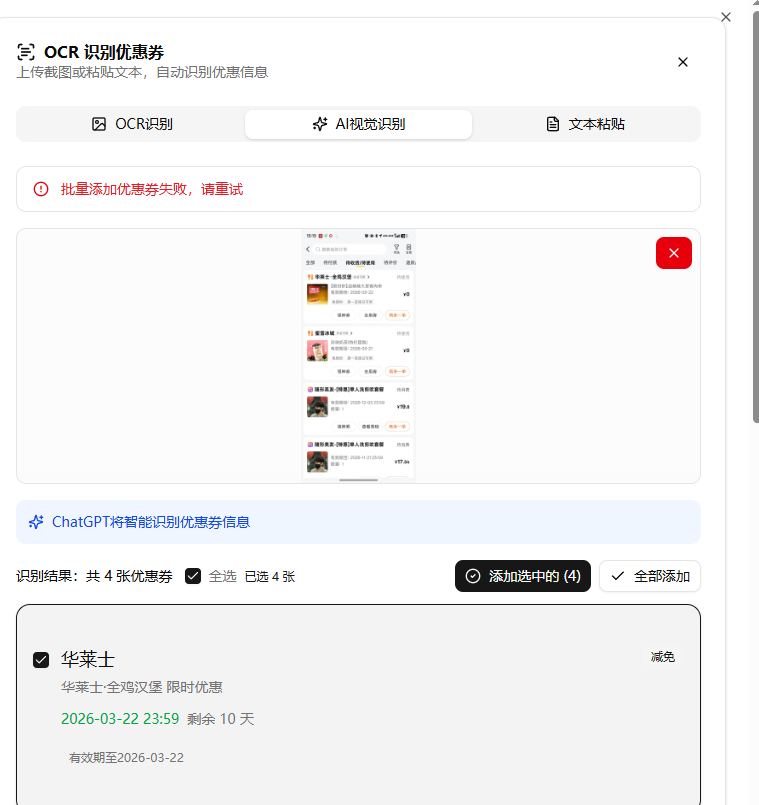
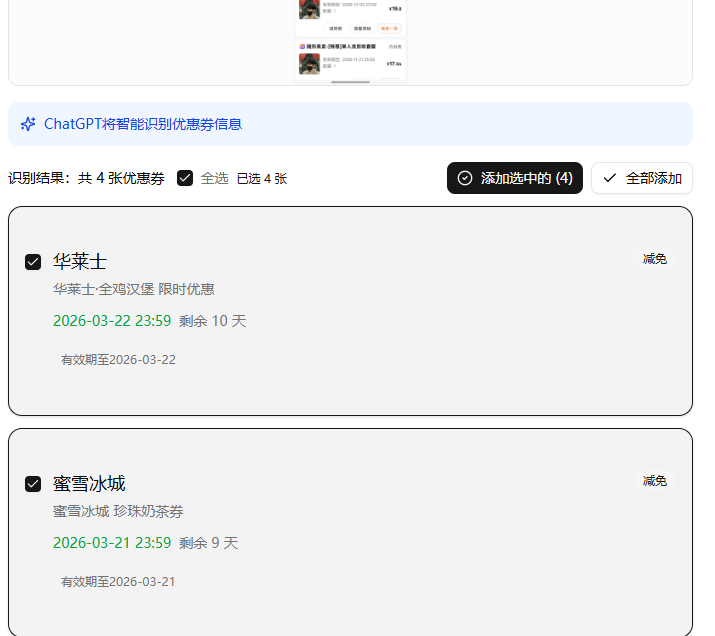
fix: 修复日期时间显示多了8小时的问题
问题根因：
- 前端发送纯日期字符串 "2026-03-22"
- Zod schema 使用 coerce: { date: true } 强制转换为 Date
- JavaScript 解析时当作 UTC 时间午夜，后续时区转换导致 +8 小时偏移

修复：
1. Schema 修改 - 日期字段接受字符串或 Date，不再强制转换
2. API 修改 - 直接将日期字符串转换为北京时间 ISO 格式
   输入: "2026-03-22" + endHour=23, endMinute=59
   输出: "2026-03-22T23:59:00.000+08:00"
3. 数据库层 - 添加 dbInsertCouponSchema 用于实际数据库插入
4. CouponManager - 在插入/更新前将字符串日期转换为 Date 对象

diff --git a/src/storage/database/shared/schema.ts b/src/storage/database/shared/schema.ts
@@ -1,6 +1,5 @@
 import { pgTable, text, varchar, timestamp, boolean, integer, index, real } from "drizzle-orm/pg-core"
 import { sql } from "drizzle-orm"
-import { createSchemaFactory } from "drizzle-zod"
 import { z } from "zod"
 
 export const coupons = pgTable(
@@ -11,7 +10,7 @@ export const coupons = pgTable(
       .default(sql`gen_random_uuid()`),
     title: varchar("title", { length: 255 }).notNull(),
     description: text("description"),
-    discountAmount: real("discount_amount"), // 改为 real 支持浮点数
+    discountAmount: real("discount_amount"), // 支持浮点数
     startDate: timestamp("start_date", { withTimezone: true }).notNull(),
     endDate: timestamp("end_date", { withTimezone: true }).notNull(),
     isReminded: boolean("is_reminded").default(false).notNull(),
@@ -26,44 +25,42 @@ export const coupons = pgTable(
   })
 )
 
-// 使用 createSchemaFactory 配置 date coercion
-const { createInsertSchema: createCoercedInsertSchema } = createSchemaFactory({
-  coerce: { date: true },
-})
-
-// Zod schemas for validation
-export const insertCouponSchema = createCoercedInsertSchema(coupons).pick({
-  title: true,
-  description: true,
-  discountAmount: true,
-  startDate: true,
-  endDate: true,
-  notes: true,
-}).extend({
-  // 覆盖 discountAmount，允许数字或null，支持浮点数
+// Zod schema for API 验证 - 接受字符串或 Date，在 API 层处理转换
+export const insertCouponSchema = z.object({
+  title: z.string().min(1, "标题不能为空").max(255, "标题不能超过255个字符"),
+  description: z.string().optional().nullable(),
   discountAmount: z.number().nullable().optional(),
+  startDate: z.union([z.string(), z.date()]),
+  endDate: z.union([z.string(), z.date()]),
+  notes: z.string().optional().nullable(),
 })
 
-export const updateCouponSchema = createCoercedInsertSchema(coupons)
-  .pick({
-    title: true,
-    description: true,
-    discountAmount: true,
-    startDate: true,
-    endDate: true,
-    isReminded: true,
-    notes: true,
-  })
-  .partial()
-  .extend({
-    // 覆盖 discountAmount，允许数字或null，支持浮点数
-    discountAmount: z.number().nullable().optional(),
-  })
+// Zod schema for 更新验证
+export const updateCouponSchema = z.object({
+  title: z.string().min(1, "标题不能为空").max(255, "标题不能超过255个字符").optional(),
+  description: z.string().optional().nullable(),
+  discountAmount: z.number().nullable().optional(),
+  startDate: z.union([z.string(), z.date()]).optional(),
+  endDate: z.union([z.string(), z.date()]).optional(),
+  isReminded: z.boolean().optional(),
+  notes: z.string().optional().nullable(),
+})
+
+// 用于数据库操作的 schema（日期必须是 Date 或 SQL）
+export const dbInsertCouponSchema = z.object({
+  title: z.string(),
+  description: z.string().nullable().optional(),
+  discountAmount: z.number().nullable().optional(),
+  startDate: z.date(),
+  endDate: z.date(),
+  notes: z.string().nullable().optional(),
+})
 
 // TypeScript types
 export type Coupon = typeof coupons.$inferSelect
 export type InsertCoupon = z.infer<typeof insertCouponSchema>
 export type UpdateCoupon = z.infer<typeof updateCouponSchema>
+export type DbInsertCoupon = z.infer<typeof dbInsertCouponSchema>
 
 
 

diff --git a/src/storage/database/couponManager.ts b/src/storage/database/couponManager.ts
@@ -2,6 +2,7 @@ import { eq, and, lte, SQL, sql } from "drizzle-orm"
 import { getDb } from "coze-coding-dev-sdk"
 import {
   coupons,
+  dbInsertCouponSchema,
   insertCouponSchema,
   updateCouponSchema,
   type Coupon,
@@ -13,7 +14,20 @@ export class CouponManager {
   async createCoupon(data: InsertCoupon): Promise<Coupon> {
     const db = await getDb()
     const validated = insertCouponSchema.parse(data)
-    const [coupon] = await db.insert(coupons).values(validated).returning()
+    
+    // 将字符串日期转换为 Date 对象
+    const dbData = {
+      ...validated,
+      startDate: typeof validated.startDate === 'string' 
+        ? new Date(validated.startDate) 
+        : validated.startDate,
+      endDate: typeof validated.endDate === 'string' 
+        ? new Date(validated.endDate) 
+        : validated.endDate,
+    }
+    
+    const dbValidated = dbInsertCouponSchema.parse(dbData)
+    const [coupon] = await db.insert(coupons).values(dbValidated).returning()
     return coupon
   }
 
@@ -69,9 +83,19 @@ export class CouponManager {
   async updateCoupon(id: string, data: UpdateCoupon): Promise<Coupon | null> {
     const db = await getDb()
     const validated = updateCouponSchema.parse(data)
+    
+    // 将字符串日期转换为 Date 对象
+    const dbData: Record<string, unknown> = { ...validated, updatedAt: new Date() }
+    if (typeof validated.startDate === 'string') {
+      dbData.startDate = new Date(validated.startDate)
+    }
+    if (typeof validated.endDate === 'string') {
+      dbData.endDate = new Date(validated.endDate)
+    }
+    
     const [coupon] = await db
       .update(coupons)
-      .set({ ...validated, updatedAt: new Date() })
+      .set(dbData)
       .where(eq(coupons.id, id))
       .returning()
     return coupon || null

diff --git a/src/app/api/coupons/route.ts b/src/app/api/coupons/route.ts
@@ -89,14 +89,39 @@ export async function POST(request: NextRequest) {
     const endHour = body.endHour ?? 23
     const endMinute = body.endMinute ?? 59
 
-    let finalEndDate = validated.endDate
+    // 处理日期：直接存储为北京时间 ISO 字符串，避免时区转换问题
+    let finalEndDate: string
+    
+    if (validated.endDate instanceof Date) {
+      // 如果是 Date 对象，转换为北京时间 ISO 字符串
+      finalEndDate = toLocalISOString(validated.endDate)
+    } else if (typeof validated.endDate === 'string') {
+      // 如果是字符串，直接使用（前端已经传的是 YYYY-MM-DD 格式）
+      // 转换为带时间的 ISO 字符串
+      const dateStr = validated.endDate.includes('T') 
+        ? validated.endDate 
+        : `${validated.endDate}T${String(endHour).padStart(2, '0')}:${String(endMinute).padStart(2, '0')}:00.000+08:00`
+      finalEndDate = dateStr
+    } else {
+      finalEndDate = toLocalISOString(new Date())
+    }
 
-    if (finalEndDate instanceof Date) {
-      finalEndDate = setLocalTime(finalEndDate, endHour, endMinute, 59, 999)
+    // 同样处理 startDate
+    let finalStartDate: string
+    if (validated.startDate instanceof Date) {
+      finalStartDate = toLocalISOString(validated.startDate)
+    } else if (typeof validated.startDate === 'string') {
+      const dateStr = validated.startDate.includes('T')
+        ? validated.startDate
+        : `${validated.startDate}T00:00:00.000+08:00`
+      finalStartDate = dateStr
+    } else {
+      finalStartDate = toLocalISOString(new Date())
     }
 
     const coupon = {
       ...validated,
+      startDate: finalStartDate,
       endDate: finalEndDate,
       endHour: endHour,
       endMinute: endMinute,
